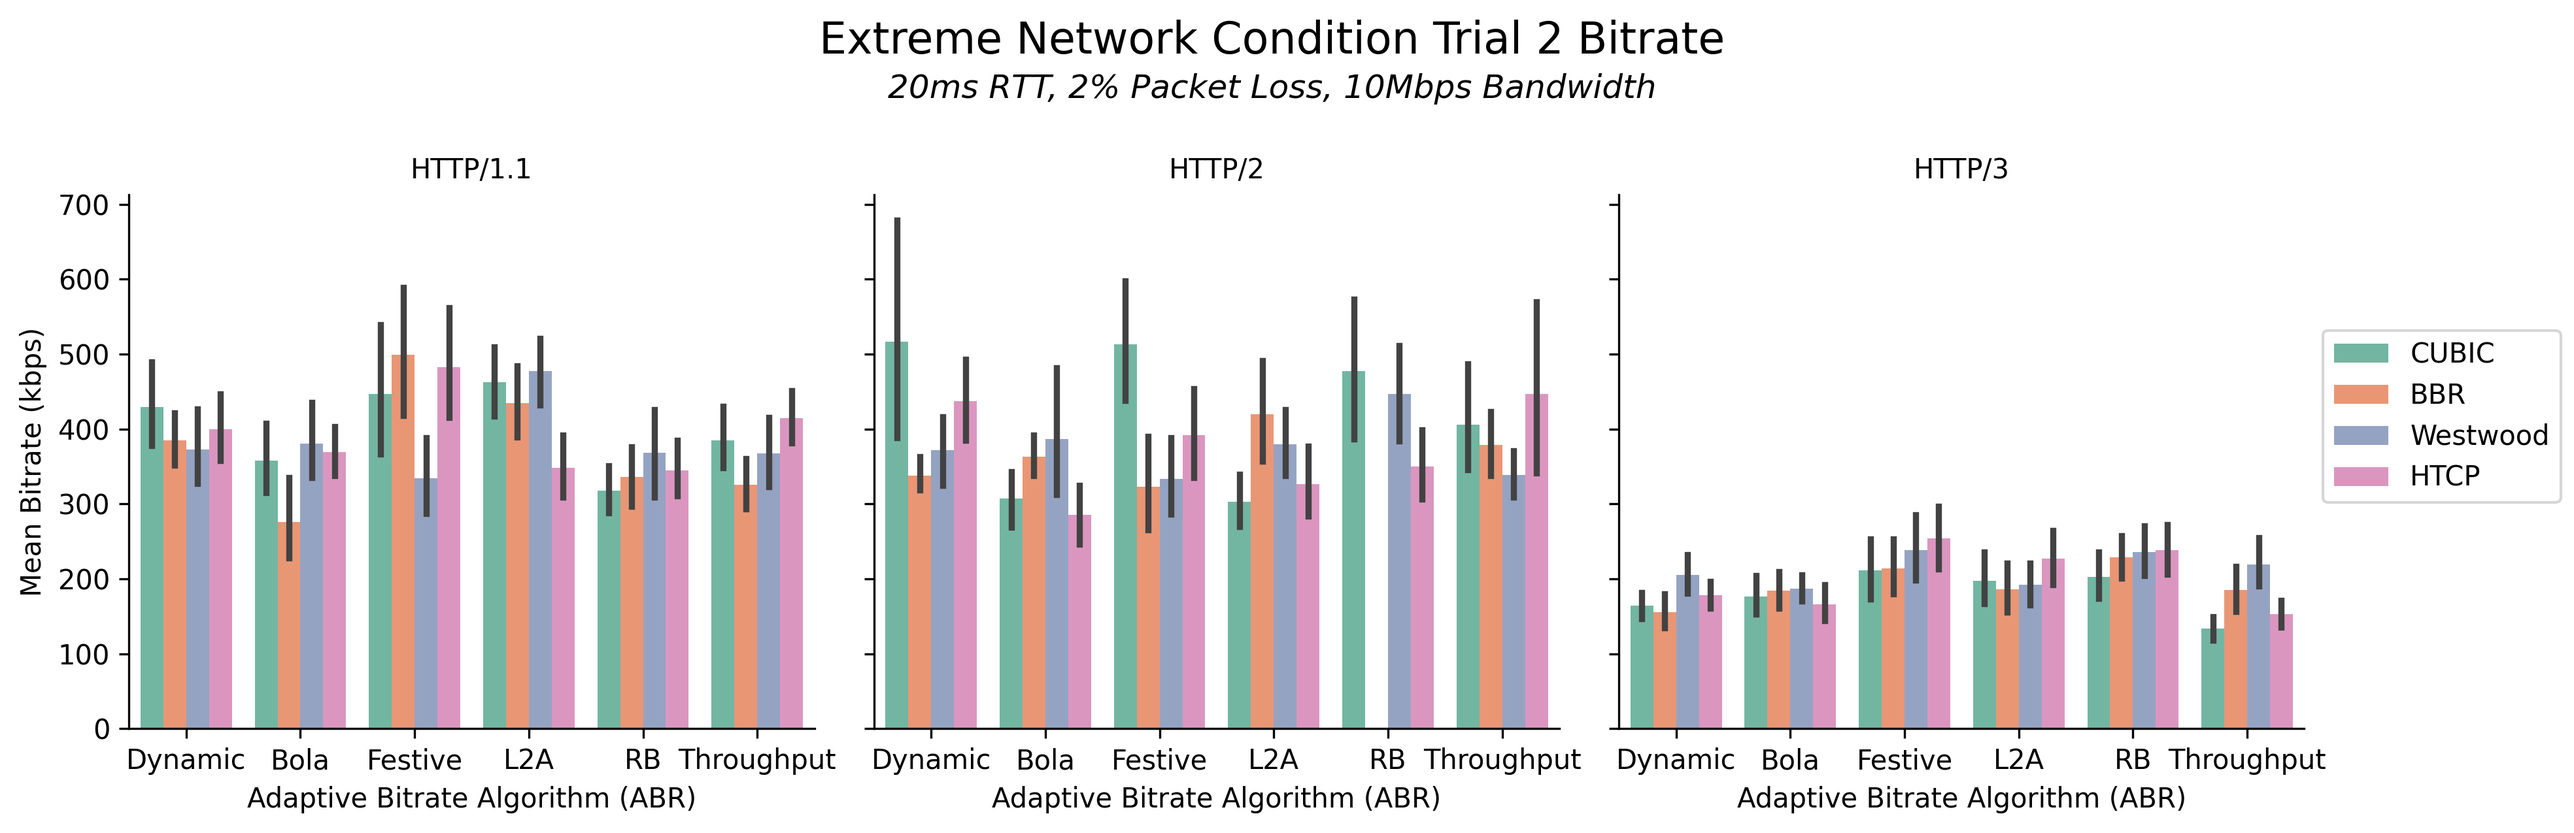
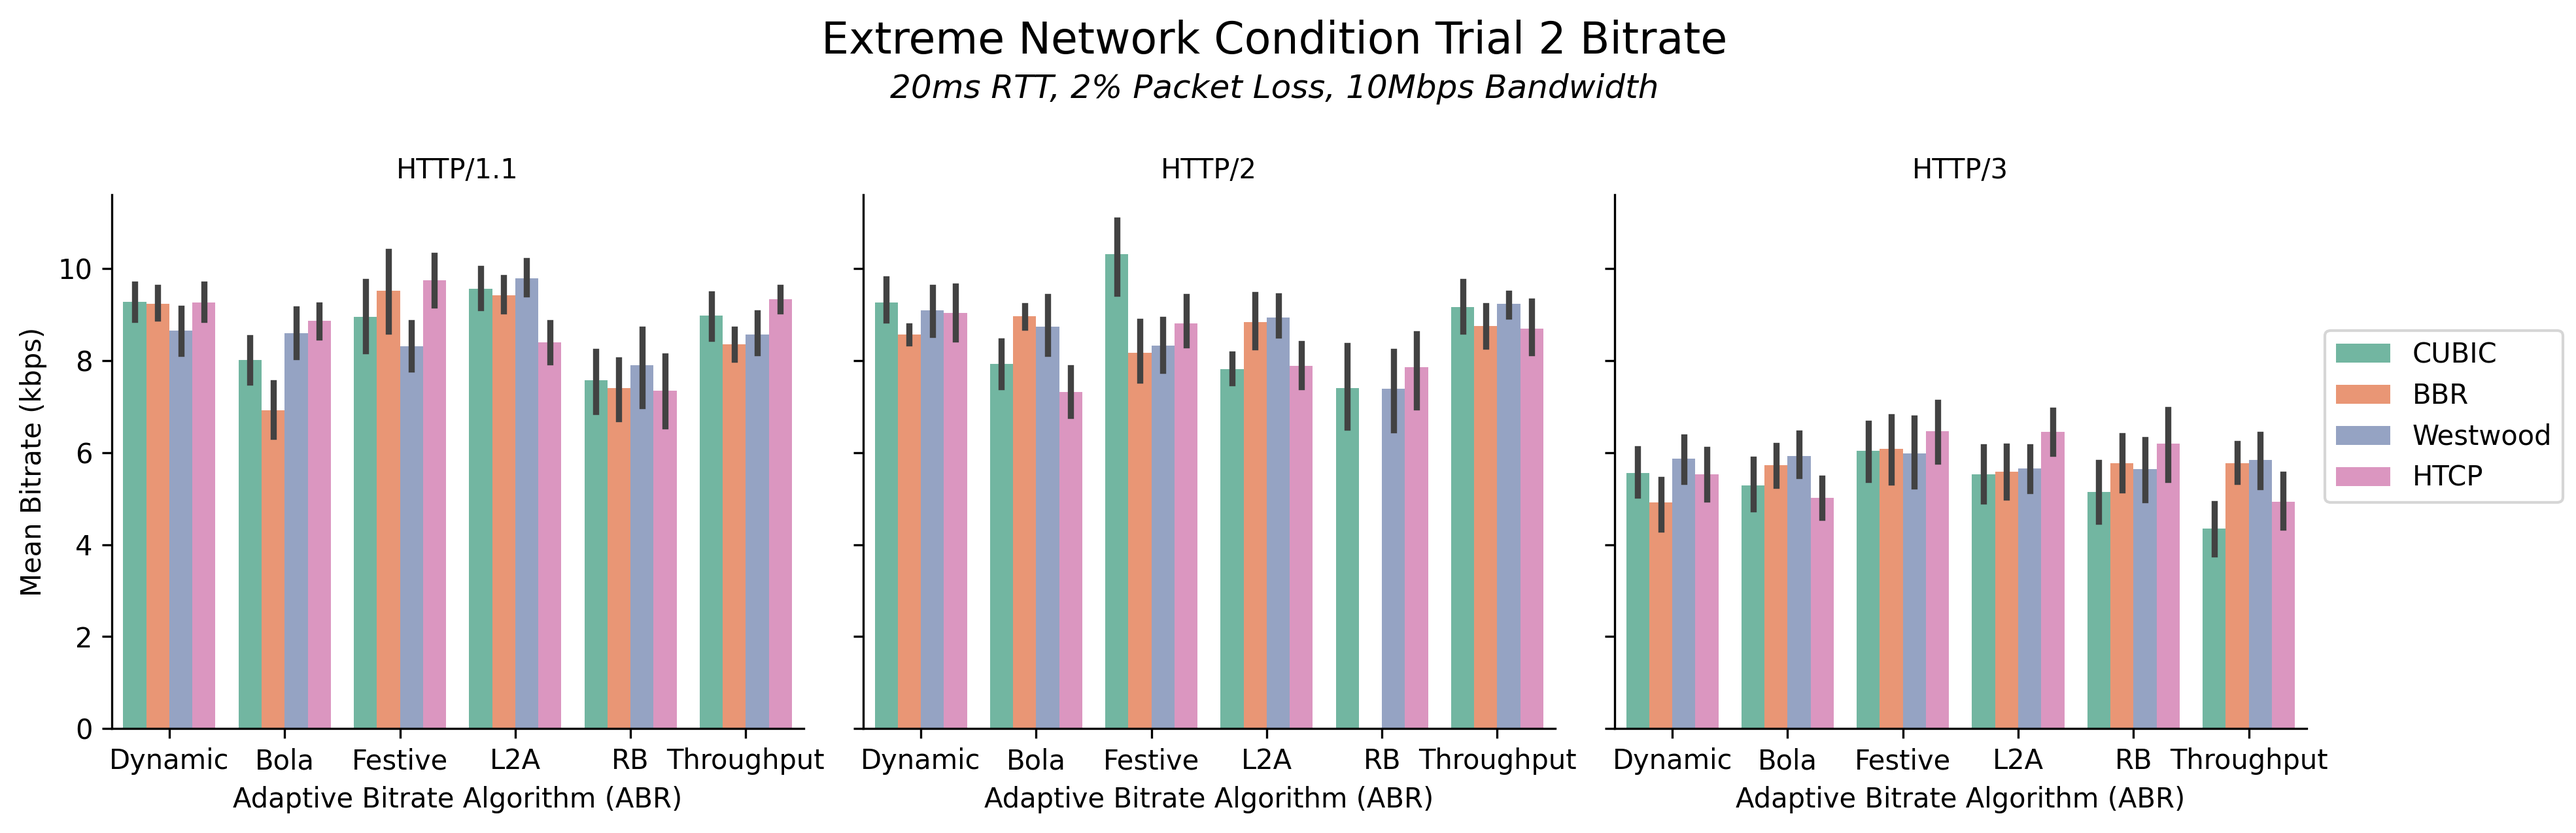
update

diff --git a/analysis/main.py b/analysis/main.py
@@ -27,12 +27,15 @@ def load_db(db_name):
 def filter_df(df, title):
     # Filter df to include only stallRate and bitrate
 
-    df = df[df["metric"].isin(["stallRate", "bitrate"])]
+    times_to_drop = df.loc[(df['metric'] == 'buffer') & (df['metricValue'] < 0.3), 'metricTime'].unique()
+    df = df[~df['metricTime'].isin(times_to_drop)]
+    df = df[df["metric"].isin(["stallRate", "index"])]
     # df = df[df["cc"].isin(["CUBIC","Westwood"])]
+
     
 
     stallrate_df = df[df["metric"] == "stallRate"]
-    bitrate_df = df[df["metric"] == "bitrate"]
+    bitrate_df = df[df["metric"] == "index"]
 
     # Uncomment this to see source data
     # stallrate_df.to_csv(f"data/stallRate-{title}.csv")
